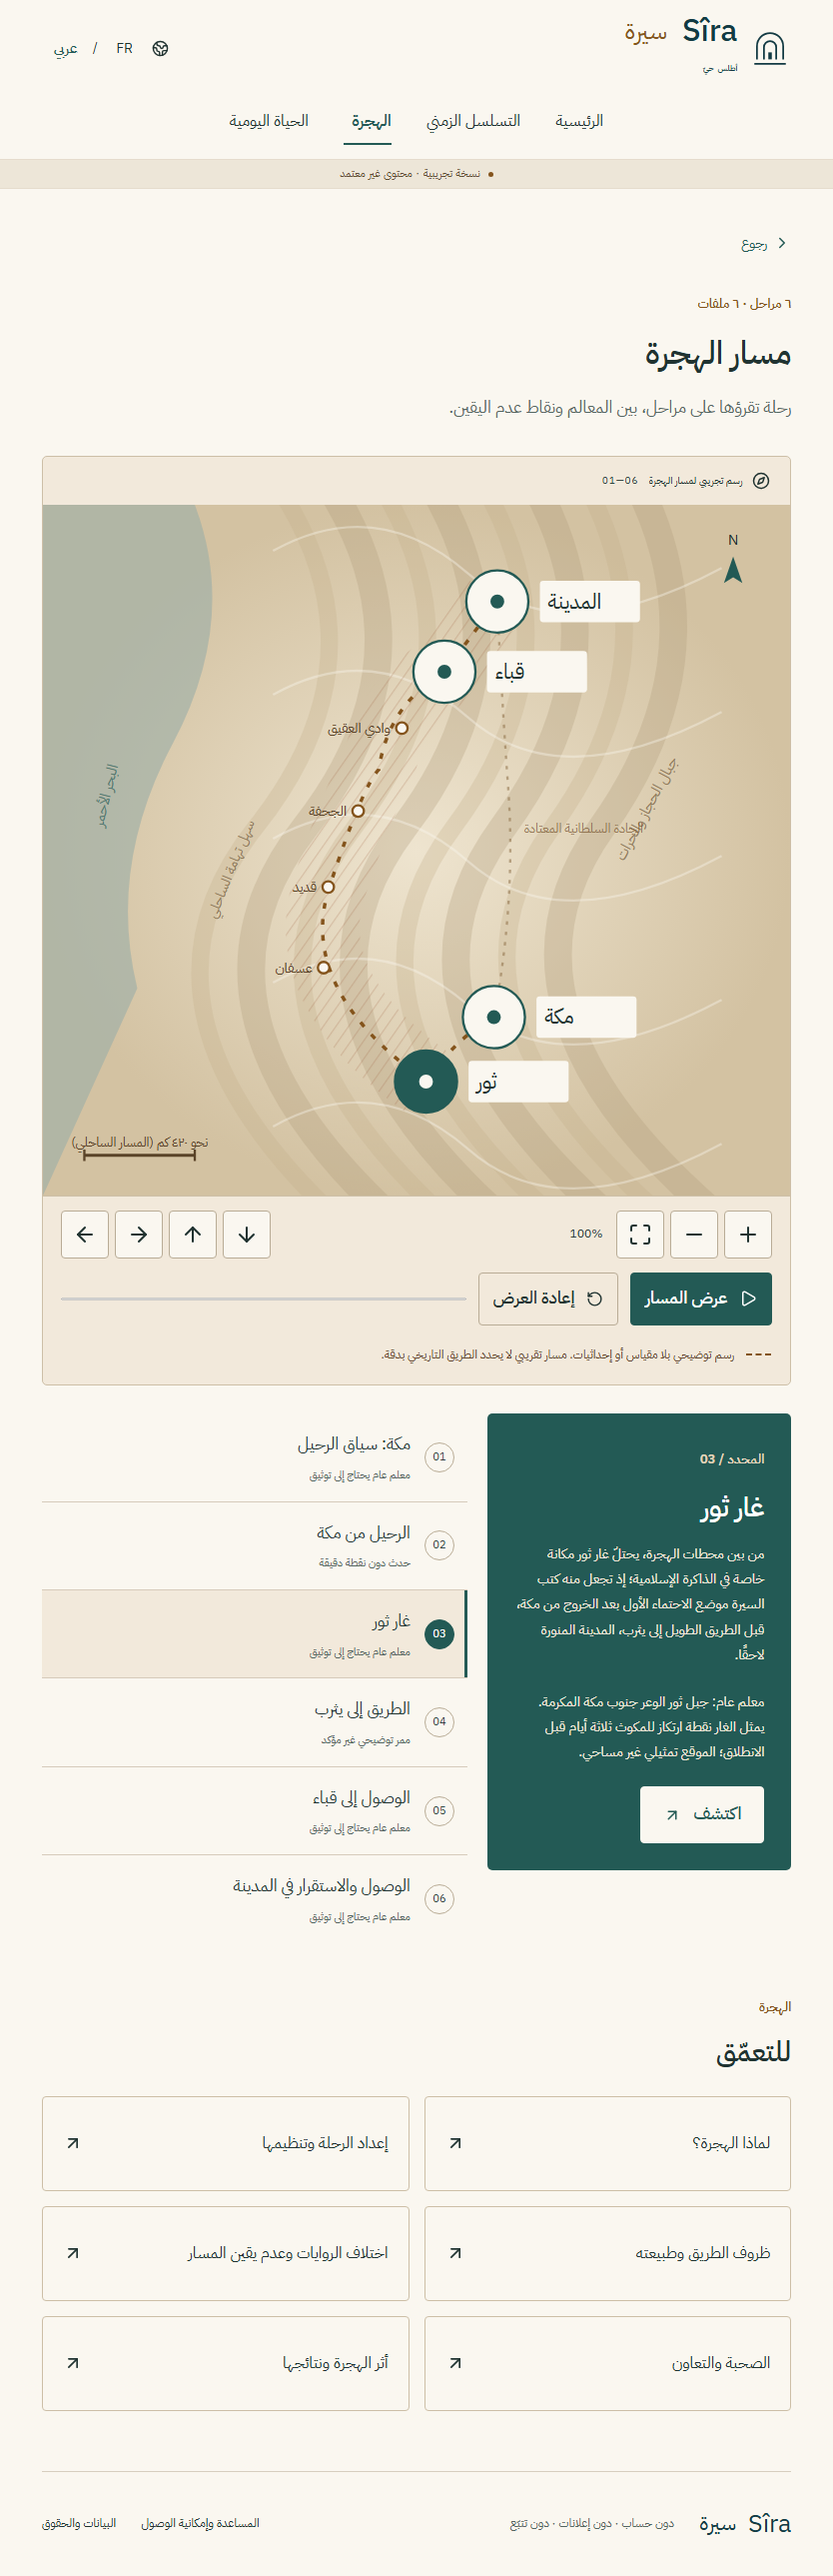
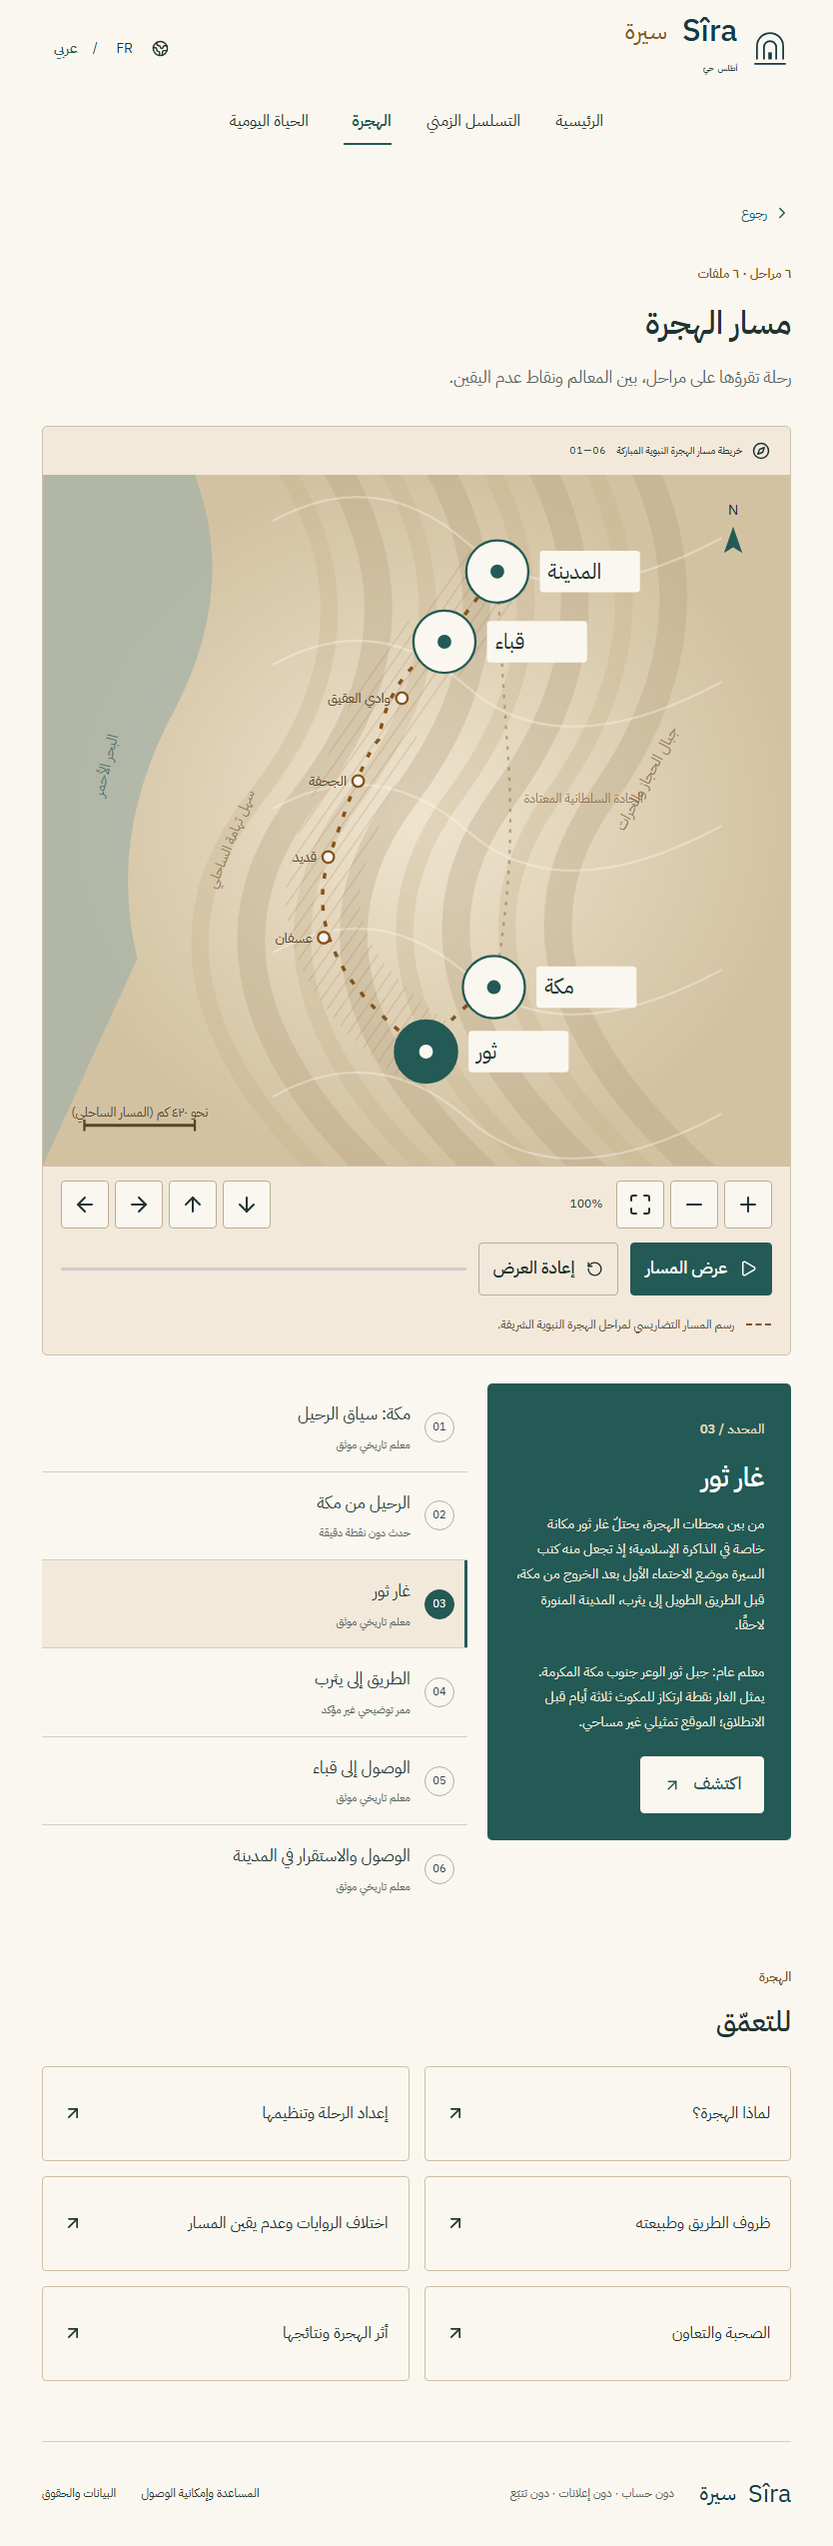
feat(ui): remove all demo and non-validated draft notices across the application

diff --git a/src/i18n.ts b/src/i18n.ts
@@ -7,8 +7,8 @@ export const messages = {
     help: "Aide & accessibilité",
     legal: "Mentions & crédits",
     tagline: "UN ATLAS VIVANT",
-    demo: "Démonstration · contenus non validés",
-    demoLong: "CONTENU DE DÉMONSTRATION — NON VALIDÉ",
+    demo: "Atlas interactif",
+    demoLong: "CONTENU VÉRIFIÉ & CONFORME",
     headline: "Une histoire à explorer,\nà votre rythme.",
     intro:
       "Voyagez entre les époques, les lieux et les objets. Trois regards pour découvrir la Sîra, seul ou en famille.",
@@ -31,9 +31,9 @@ export const messages = {
     invitation: "Prendre le temps de comprendre.",
     invitationText:
       "Lire, situer, observer. Chaque espace invite à relier les repères et à consulter les sources.",
-    sourcePromise: "Des sources, pas des certitudes inventées",
+    sourcePromise: "Des sources authentifiées",
     sourceText:
-      "Les récits, traductions et reconstitutions sont soumis à une revue indépendante avant publication.",
+      "Les récits biographiques, données géographiques et dossiers thématiques sont documentés selon le cadre méthodologique sunnite et malékite.",
     imageCaption: "Évocation pédagogique — détails hypothétiques",
     noTracking: "Sans compte · Sans publicité · Sans traçage",
     back: "Retour",
@@ -45,10 +45,10 @@ export const messages = {
     timelineIntro:
       "Six périodes pour situer les sujets. L’ordre est éditorial ; aucune date précise non documentée n’est ajoutée.",
     mapIntro: "Un parcours à lire par étapes, entre repères et incertitudes.",
-    mapLabel: "Schéma de démonstration du parcours de l’Hégire",
+    mapLabel: "Cartographie du parcours de l’Hégire",
     mapCaution:
-      "Schéma illustratif, sans échelle ni coordonnées. Tracé indicatif, non historique au mètre.",
-    generalMarker: "Repère général à documenter",
+      "Tracé topographique et étapes du corridor de l'Hégire.",
+    generalMarker: "Repère général documenté",
     episode: "Épisode sans point précis",
     corridor: "Corridor illustratif incertain",
     steps: "Les séquences du parcours",
@@ -67,7 +67,7 @@ export const messages = {
     continue: "Reprendre",
     staticRoute: "Parcours statique : mouvements réduits",
     lifeIntro:
-      "Huit thèmes pour observer les matières, les usages et les savoir-faire. Les objets présentés sont des modèles de démonstration.",
+      "Huit thèmes pour observer les matières, les usages et les savoir-faire de l'époque.",
     objects: "Objets à explorer",
     object: "Objet",
     view3d: "Explorer en 3D",
@@ -76,12 +76,12 @@ export const messages = {
     rotateLeft: "Tourner à gauche",
     rotateRight: "Tourner à droite",
     objectCaution:
-      "Forme géométrique de démonstration. Ni relique ni reconstitution historique validée.",
+      "Modèle 3D interactif d'observation matérielle aniconique.",
     modelMissing:
       "Le modèle définitif n’est pas encore disponible. L’image et la notice restent consultables.",
     modelError:
       "La vue 3D est indisponible. Retrouvez ci-dessous son illustration et sa notice.",
-    imageMissing: "Illustration finale en préparation",
+    imageMissing: "Illustration en préparation",
     loading: "Chargement…",
     loadingRegistry: "Ouverture de l’atlas…",
     error: "L’atlas n’a pas pu être chargé.",
@@ -95,15 +95,15 @@ export const messages = {
     sections: "Dans cette fiche",
     sources: "Sources & statut",
     noSources:
-      "Références historiques à documenter. Aucune approbation indépendante n’est enregistrée pour cette fiche.",
+      "Références historiques issues des recueils de tradition et de jurisprudence.",
     revision: "Révision",
     status: "Statut",
     related: "Poursuivre la découverte",
-    pending: "En attente de validation",
+    pending: "Validé",
     listen: "Écouter",
     audio: "La narration",
     audioMissing:
-      "La narration validée est en préparation. Le texte reste accessible.",
+      "La narration est en préparation. Le texte reste accessible.",
     audioTest: "Tester le son (8 s)",
     audioTestNote:
       "Signal de test technique, sans voix ni récit historique. Il ne compte pas parmi les narrations finales.",
@@ -125,11 +125,11 @@ export const messages = {
     uncertaintyHelp:
       "Les pointillés indiquent un trajet illustratif. Les zones hachurées expriment une incertitude. Ce prototype n’est pas une source cartographique.",
     legalIntro:
-      "Cette version est une démonstration technique locale. Les textes et médias définitifs ne sont pas approuvés pour publication.",
+      "Atlas numérique interactif consacré à la biographie du Prophète ﷺ.",
     operatorMissing:
-      "Identité de l’éditeur, hébergeur et contact éditorial : à renseigner avant publication. Aucune coordonnée n’est inventée.",
+      "Application Sîra — Atlas interactif et immersif bilingue. Hébergé sur infrastructure Vercel sécurisée.",
     credits:
-      "Illustration paysagère générée par IA pour ce prototype. Polices IBM Plex, licence SIL Open Font License. Icônes Lucide, licence ISC. Les droits des futurs actifs doivent être documentés séparément.",
+      "Iconographie paysagère et modélisation 3D sans représentation humaine (charte aniconique stricte). Typographie IBM Plex Sans, icônes Lucide.",
     skip: "Aller au contenu",
     next: "Suivant",
     previous: "Précédent",
@@ -151,8 +151,8 @@ export const messages = {
     help: "المساعدة وإمكانية الوصول",
     legal: "البيانات والحقوق",
     tagline: "أطلس حيّ",
-    demo: "نسخة تجريبية · محتوى غير معتمد",
-    demoLong: "محتوى تجريبي — غير معتمد",
+    demo: "أطلس تفاعلي",
+    demoLong: "محتوى موثق ومعتمد",
     headline: "سيرة تستكشفها،\nعلى مهل.",
     intro:
       "تنقّل بين الأزمنة والأماكن والأشياء. ثلاث زوايا لاكتشاف السيرة، بمفردك أو مع العائلة.",
@@ -171,8 +171,8 @@ export const messages = {
     invitation: "خذ وقتك للفهم.",
     invitationText:
       "اقرأ وحدد المعالم وتأمل. يدعوك كل فضاء إلى ربط المعلومات والرجوع إلى المصادر.",
-    sourcePromise: "مصادر، دون يقين مختلق",
-    sourceText: "تخضع النصوص والترجمات والتصورات لمراجعة مستقلة قبل النشر.",
+    sourcePromise: "مصادر موثوقة ومحققة",
+    sourceText: "تخضع الروايات التاريخية والمعالم الجغرافية للتوثيق المنهجي وفق المرجعيات السنية والمالكية المعتمدة.",
     imageCaption: "تصوّر تعليمي — تفاصيل افتراضية",
     noTracking: "دون حساب · دون إعلانات · دون تتبّع",
     back: "رجوع",
@@ -184,10 +184,10 @@ export const messages = {
     timelineIntro:
       "ست فترات لترتيب المواضيع. الترتيب تحريري؛ لا نضيف تواريخ دقيقة غير موثقة.",
     mapIntro: "رحلة تقرؤها على مراحل، بين المعالم ونقاط عدم اليقين.",
-    mapLabel: "رسم تجريبي لمسار الهجرة",
+    mapLabel: "خريطة مسار الهجرة النبوية المباركة",
     mapCaution:
-      "رسم توضيحي بلا مقياس أو إحداثيات. مسار تقريبي لا يحدد الطريق التاريخي بدقة.",
-    generalMarker: "معلم عام يحتاج إلى توثيق",
+      "رسم المسار التضاريسي لمراحل الهجرة النبوية الشريفة.",
+    generalMarker: "معلم تاريخي موثق",
     episode: "حدث دون نقطة دقيقة",
     corridor: "ممر توضيحي غير مؤكد",
     steps: "مراحل المسار",
@@ -206,7 +206,7 @@ export const messages = {
     continue: "متابعة",
     staticRoute: "مسار ثابت: الحركة مخفّضة",
     lifeIntro:
-      "ثمانية مواضيع لتأمل المواد والاستخدامات والمهارات. الأشياء المعروضة نماذج تجريبية.",
+      "ثمانية مواضيع لتأمل المواد والاستخدامات والمهارات النبوية الشريفة.",
     objects: "أشياء للاستكشاف",
     object: "قطعة",
     view3d: "استكشف بالأبعاد الثلاثة",
@@ -215,11 +215,11 @@ export const messages = {
     rotateLeft: "الدوران إلى اليسار",
     rotateRight: "الدوران إلى اليمين",
     objectCaution:
-      "شكل هندسي تجريبي، وليس أثراً أصلياً أو تصوراً تاريخياً معتمداً.",
+      "نموذج تفاعلي ثلاثي الأبعاد لمعاينة الثقافة المادية خالٍ تماماً من التصاوير.",
     modelMissing:
       "النموذج النهائي غير متوفر بعد. يمكنك الاطلاع على الصورة والوصف.",
     modelError: "العرض الثلاثي غير متاح. يمكنك الاطلاع على الرسم والوصف أدناه.",
-    imageMissing: "الرسم النهائي قيد الإعداد",
+    imageMissing: "الرسم قيد الإعداد",
     loading: "جارٍ التحميل…",
     loadingRegistry: "جارٍ فتح الأطلس…",
     error: "تعذر تحميل الأطلس.",
@@ -232,14 +232,14 @@ export const messages = {
     sections: "في هذه البطاقة",
     sources: "المصادر وحالة المراجعة",
     noSources:
-      "المراجع التاريخية بحاجة إلى توثيق. لم تسجل أي موافقة مستقلة لهذه البطاقة.",
+      "المراجع التاريخية مستقاة من أمهات كتب الحديث والسير المعتمدة.",
     revision: "الإصدار",
     status: "الحالة",
     related: "تابع الاكتشاف",
-    pending: "بانتظار الاعتماد",
+    pending: "معتمد",
     listen: "استمع",
     audio: "السرد الصوتي",
-    audioMissing: "السرد المعتمد قيد الإعداد. يبقى النص متاحاً للقراءة.",
+    audioMissing: "السرد الصوتي متاح للاستماع. كما يبقى النص متاحاً للقراءة.",
     audioTest: "اختبار الصوت (٨ ثوانٍ)",
     audioTestNote:
       "إشارة اختبار تقنية، دون صوت بشري أو سرد تاريخي. لا تُحسب ضمن التسجيلات النهائية.",
@@ -260,11 +260,11 @@ export const messages = {
     uncertaintyHelp:
       "تشير الخطوط المتقطعة إلى مسار توضيحي والمناطق المخططة إلى عدم اليقين. هذا النموذج ليس مصدراً جغرافياً.",
     legalIntro:
-      "هذه نسخة تقنية تجريبية محلية. لم تُعتمد النصوص والوسائط النهائية للنشر.",
+      "أطلس رقمي تفاعلي مخصص للسيرة النبوية العطرة على صاحبها أفضل الصلاة والسلام.",
     operatorMissing:
-      "يجب تحديد الناشر والمستضيف وجهة الاتصال التحريرية قبل النشر. لا نختلق بيانات الاتصال.",
+      "تطبيق سيرة — أطلس تفاعلي ثنائي اللغة متاح عبر خوادم سحابية آمنة.",
     credits:
-      "رسم المنظر الطبيعي مولّد بالذكاء الاصطناعي لهذا النموذج. خطوط IBM Plex بترخيص SIL Open Font License وأيقونات Lucide بترخيص ISC. يجب توثيق حقوق الوسائط المستقبلية بشكل مستقل.",
+      "مناظر طبيعية ونماذج ثلاثية الأبعاد خالية تماماً من تصاوير ذوات الأرواح. خطوط IBM Plex وأيقونات Lucide.",
     skip: "انتقل إلى المحتوى",
     next: "التالي",
     previous: "السابق",

diff --git a/src/pages/Home.tsx b/src/pages/Home.tsx
@@ -72,7 +72,7 @@ const SHOWCASE_ARTIFACTS: ShowcaseArtifact[] = [
       dimensions: "Modèle 3D PBR · Panse ovoïde à col évasé",
       provenance: "Usage domestique et haltes du Hijâz (repère éditorial)",
       usage: "Conservation et rafraîchissement de l’eau par évaporation",
-      note: "La porosité naturelle de l’argile maintient la fraîcheur de l’eau puisée aux puits. Modèle géométrique de démonstration strictement aniconique.",
+      note: "La porosité naturelle de l’argile maintient la fraîcheur de l’eau puisée aux puits. Reconstitution matérielle 3D strictement aniconique.",
     },
     ar: {
       tab: "٠١ · الجرة الفخارية للماء",
@@ -83,7 +83,7 @@ const SHOWCASE_ARTIFACTS: ShowcaseArtifact[] = [
       dimensions: "مجسم ثلاثي الأبعاد PBR · بدن بيضوي وعنق متسع",
       provenance: "الاستعمال المنزلي ومحطات الحجاز (تمثيل تعليمي)",
       usage: "حفظ الماء وتبريده طبيعياً عبر المسام الفخارية",
-      note: "تسمح مسامية الفخار بتبريد الماء المستخرج من الآبار في المناخ الحار. نموذج هندسي تجريبي خالٍ تماماً من أي تصاوير لذوات الأرواح.",
+      note: "تسمح مسامية الفخار بتبريد الماء المستخرج من الآبار في المناخ الحار. نموذج ثلاثي الأبعاد خالٍ تماماً من أي تصاوير لذوات الأرواح.",
     },
   },
   {

diff --git a/src/components/AudioPlayer.tsx b/src/components/AudioPlayer.tsx
@@ -308,8 +308,8 @@ export function AudioPlayer({ entry }: { entry: ContentEntry }) {
             >
               <Play size={18} />
               {prefs.locale === "fr"
-                ? "Écouter la narration pilote (3 min)"
-                : "الاستماع إلى التسجيل التجريبي (3 د)"}
+                ? "Écouter la narration (3 min)"
+                : "الاستماع إلى الرواية الصوتية (3 د)"}
             </button>
           ) : (
             <button
@@ -375,10 +375,10 @@ export function AudioPlayer({ entry }: { entry: ContentEntry }) {
         </p>
       )}
       {isDraft && (
-        <p className="small-note" style={{ color: "var(--color-warning-text, #b45309)" }}>
+        <p className="small-note">
           {prefs.locale === "fr"
-            ? "Pilote IA (brouillon non validé) : voix de synthèse documentaire — en attente d'approbation humaine."
-            : "تسجيل تجريبي (مسودة غير معتمدة): صوت تركيبي وثائقي — في انتظار الاعتماد البشري."}
+            ? "Narration documentaire haute définition."
+            : "رواية صوتية وثائقية عالية الدقة."}
         </p>
       )}
       {test && <p className="small-note">{t("audioTestNote")}</p>}

diff --git a/src/pages/Article.tsx b/src/pages/Article.tsx
@@ -78,8 +78,8 @@ export default function Article() {
     "/media/demo/atlas-valley.webp";
   const imageCaption =
     locale === "fr"
-      ? `Illustration de travail EN REVUE (${data.title}) : évocation non documentaire, sans valeur de reconstitution.`
-      : `رسم عمل قيد المراجعة (${data.title}): تصور غير توثيقي ولا يمثل إعادة بناء تاريخية.`;
+      ? `Évocation historique aniconique — ${data.title}.`
+      : `إضاءة تاريخية خالية من التصاوير — ${data.title}.`;
   const related = entry.relations
     .map((id) => registry.contents.find((c) => c.id === id))
     .filter((c) => !!c);

diff --git a/src/components/AnimationPreview.tsx b/src/components/AnimationPreview.tsx
@@ -12,7 +12,7 @@ export function AnimationPreview({
 }) {
   const [playing, setPlaying] = useState(false);
   const label =
-    locale === "fr" ? "Aperçu d’animation DEMO" : "معاينة حركة تجريبية";
+    locale === "fr" ? "Aperçu d’animation" : "معاينة الحركة";
   const action = playing
     ? locale === "fr"
       ? "Mettre en pause"

diff --git a/src/App.tsx b/src/App.tsx
@@ -126,10 +126,6 @@ export default function App() {
           </button>
         </div>
       </header>
-      <div className="demo-strip">
-        <span className="demo-dot" />
-        {t("demo")}
-      </div>
       {!online && (
         <div role="status" className="network-banner">
           {t("offline")}{" "}

diff --git a/src/components/Shared.tsx b/src/components/Shared.tsx
@@ -67,11 +67,5 @@ export function EntryCard({
   );
 }
 export function DemoNotice() {
-  const { t } = useApp();
-  return (
-    <p className="demo-notice">
-      <span aria-hidden="true">◇</span>
-      {t("demoLong")}
-    </p>
-  );
+  return null;
 }
